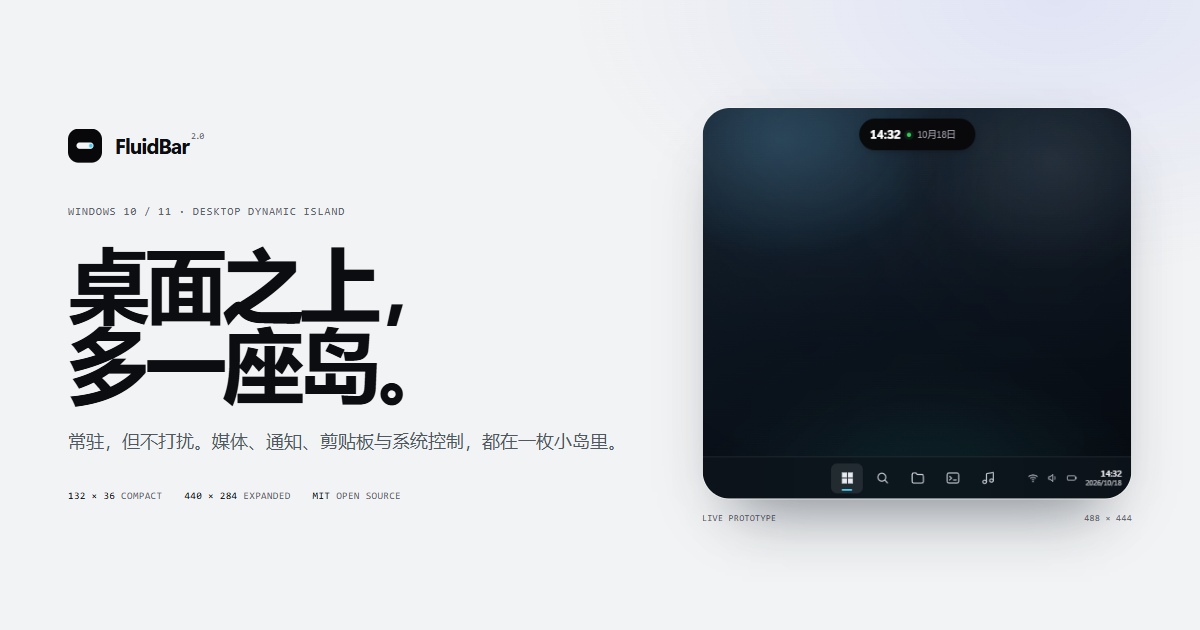
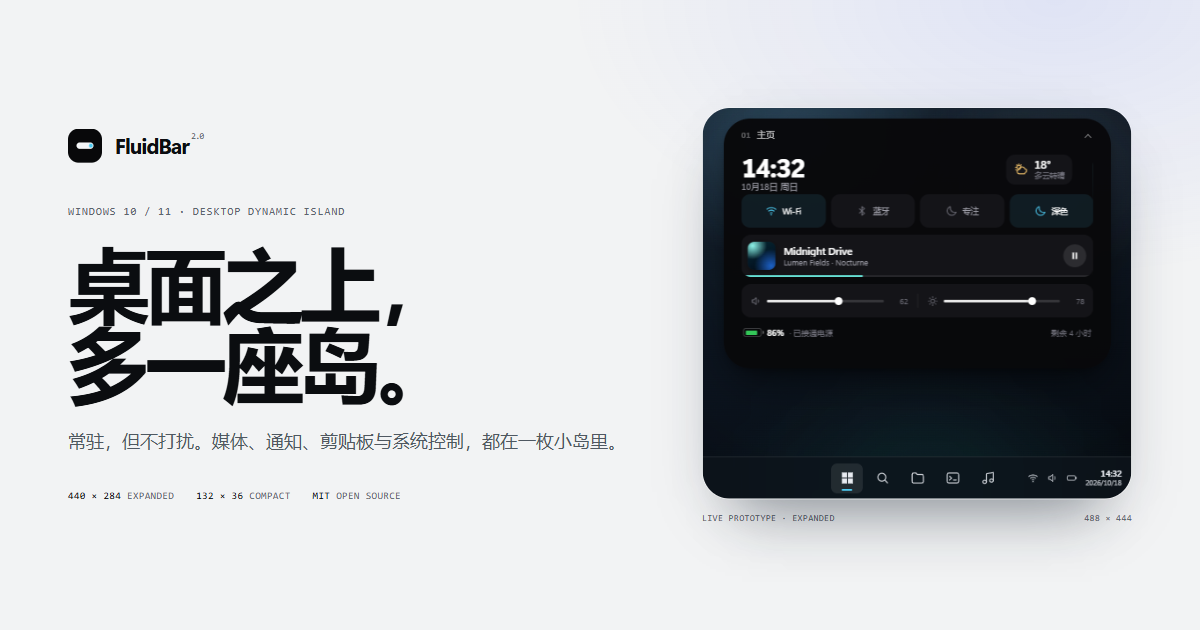
fix(website): make hero control center the first impression

diff --git a/website/src/sections/hero.css b/website/src/sections/hero.css
@@ -123,18 +123,88 @@
 
 .stage-light {
   position: absolute;
-  inset: 3% 2% 8%;
+  inset: 6% -4% 6%;
   z-index: 0;
   border-radius: 50%;
-  background: radial-gradient(closest-side, rgba(36, 71, 255, 0.09), transparent 72%);
-  filter: blur(18px);
+  background: radial-gradient(closest-side, rgba(36, 71, 255, 0.12), transparent 70%);
+  filter: blur(26px);
+  pointer-events: none;
+}
+
+.hero-stage::before {
+  content: '';
+  position: absolute;
+  inset: 4% -2% 3%;
+  z-index: 0;
+  background-image:
+    linear-gradient(to right, rgba(11, 13, 16, 0.035) 1px, transparent 1px),
+    linear-gradient(to bottom, rgba(11, 13, 16, 0.035) 1px, transparent 1px);
+  background-size: 44px 44px;
+  -webkit-mask-image: radial-gradient(closest-side, #000 32%, transparent 80%);
+  mask-image: radial-gradient(closest-side, #000 32%, transparent 80%);
   pointer-events: none;
 }
 
 .stage-frame {
   position: relative;
   z-index: 1;
-  width: min(100%, 488px);
+  width: min(100%, 560px);
+}
+
+.stage-frame .prototype-frame {
+  max-width: min(560px, 58vh);
+}
+
+.hero-page-rail {
+  position: absolute;
+  z-index: 2;
+  right: 0;
+  top: 50%;
+  display: flex;
+  flex-direction: column;
+  gap: 4px;
+  width: 92px;
+  padding-left: 16px;
+  border-left: 1px solid var(--line);
+  transform: translateY(-50%);
+}
+
+.hero-page-rail__label {
+  margin-bottom: 8px;
+  font-family: var(--font-mono);
+  font-size: 9px;
+  letter-spacing: 0.08em;
+  color: var(--muted-2);
+}
+
+.hero-page-rail button {
+  display: flex;
+  align-items: baseline;
+  gap: 8px;
+  padding: 5px 0;
+  color: var(--muted);
+  font-size: 11px;
+  text-align: left;
+  transition: color 0.2s ease, transform 0.2s ease;
+}
+
+.hero-page-rail button span {
+  font-family: var(--font-mono);
+  font-size: 8px;
+  color: var(--muted-2);
+}
+
+.hero-page-rail button:hover {
+  color: var(--ink);
+  transform: translateX(2px);
+}
+
+.hero-page-rail button.is-active {
+  color: var(--accent);
+}
+
+.hero-page-rail button.is-active span {
+  color: var(--accent);
 }
 
 .stage-meta {
@@ -183,6 +253,12 @@
   letter-spacing: 0.02em;
 }
 
+@media (max-width: 1250px) {
+  .hero-page-rail {
+    display: none;
+  }
+}
+
 @media (max-width: 1100px) {
   .hero-grid {
     gap: 36px;
@@ -225,6 +301,12 @@
 
   .stage-frame {
     width: 100%;
+  }
+
+  .hero-stage::before {
+    inset: 2% 0;
+    background-size: 36px 36px;
+    opacity: 0.7;
   }
 }
 

diff --git a/website/src/sections/Hero.tsx b/website/src/sections/Hero.tsx
@@ -1,9 +1,14 @@
 import { ArrowDown, ArrowUpRight } from '@phosphor-icons/react';
 import { SpecularButton } from '../ui/reactbits';
 import { PrototypeFrame } from '../island/PrototypeFrame';
+import { usePrototype } from '../island/usePrototype';
 import './hero.css';
 
+const PAGES = ['主页', '媒体', '通知', '剪贴板', 'Agent', '小组件'];
+
 export function Hero() {
+  const { frameRef, state, setState, send } = usePrototype();
+
   const scrollTo = (id: string) => {
     document.getElementById(id)?.scrollIntoView({ behavior: 'smooth', block: 'start' });
   };
@@ -69,18 +74,38 @@ export function Hero() {
             </div>
 
             <PrototypeFrame
-              title="FluidBar 真实交互原型：点击小岛展开，按 1 到 6 切换页面"
+              ref={frameRef}
+              title="FluidBar 真实交互原型：默认展开控制中心，点击岛内按钮或按 Esc 收起"
               name="fluidbar-hero"
-              poster={`${import.meta.env.BASE_URL}posters/hero-idle.png`}
+              poster={`${import.meta.env.BASE_URL}posters/lab-expanded.png`}
+              startState="expanded"
+              startPage={0}
+              onState={setState}
               defer
             />
 
             <div className="stage-meta stage-meta--bottom">
-              <span className="mono">132 × 36 · COMPACT</span>
-              <span className="mono stage-demo-label">示例数据</span>
               <span className="mono">440 × 284 · EXPANDED</span>
+              <span className="mono stage-demo-label">示例数据 · 可收起</span>
+              <span className="mono">132 × 36 · COMPACT</span>
             </div>
           </div>
+
+          <nav className="hero-page-rail" aria-label="原型页面">
+            <span className="hero-page-rail__label">PAGES</span>
+            {PAGES.map((page, index) => (
+              <button
+                key={page}
+                type="button"
+                className={state.page === index ? 'is-active' : ''}
+                aria-pressed={state.page === index}
+                onClick={() => send({ state: 'expanded', page: index })}
+              >
+                <span>0{index + 1}</span>
+                {page}
+              </button>
+            ))}
+          </nav>
         </div>
       </div>
     </section>

diff --git a/website/src/island/PrototypeFrame.tsx b/website/src/island/PrototypeFrame.tsx
@@ -29,6 +29,8 @@ interface PrototypeFrameProps {
   onReady?: () => void;
   lazy?: boolean;
   defer?: boolean;
+  startState?: 'expanded' | string;
+  startPage?: number;
 }
 
 function scheduleIdle(callback: () => void) {
@@ -47,7 +49,7 @@ function scheduleIdle(callback: () => void) {
 
 export const PrototypeFrame = forwardRef<PrototypeFrameHandle, PrototypeFrameProps>(
   function PrototypeFrame(
-    { title, name, poster, className = '', onState, onReady, lazy = false, defer = false },
+    { title, name, poster, className = '', onState, onReady, lazy = false, defer = false, startState, startPage },
     forwardedRef,
   ) {
     const wrapperRef = useRef<HTMLDivElement>(null);
@@ -82,7 +84,7 @@ export const PrototypeFrame = forwardRef<PrototypeFrameHandle, PrototypeFramePro
       if (!element) return;
       const update = () => {
         const width = element.getBoundingClientRect().width;
-        setScale(Math.min(1, Math.max(0.4, width / FRAME_WIDTH)));
+        setScale(Math.min(1.2, Math.max(0.4, width / FRAME_WIDTH)));
       };
       update();
       const observer = new ResizeObserver(update);
@@ -155,6 +157,11 @@ export const PrototypeFrame = forwardRef<PrototypeFrameHandle, PrototypeFramePro
       transform: `scale(${scale})`,
     };
     const wrapperStyle: CSSProperties = { height: FRAME_HEIGHT * scale };
+    const params = new URLSearchParams();
+    if (startState) params.set('state', startState);
+    if (startState === 'expanded') params.set('tab', ['home', 'media', 'notifications', 'clipboard', 'agent', 'widgets'][startPage ?? 0] ?? 'home');
+    const query = params.toString();
+    const frameSrc = `${import.meta.env.BASE_URL}island/embed.html${query ? `?${query}` : ''}`;
 
     return (
       <div
@@ -175,7 +182,7 @@ export const PrototypeFrame = forwardRef<PrototypeFrameHandle, PrototypeFramePro
             className="prototype-frame__iframe"
             title={title}
             name={name}
-            src={`${import.meta.env.BASE_URL}island/embed.html`}
+            src={frameSrc}
             style={frameStyle}
             loading="eager"
           />

diff --git a/website/tests/a11y.spec.ts b/website/tests/a11y.spec.ts
@@ -1,22 +1,26 @@
 import AxeBuilder from '@axe-core/playwright';
 import { expect, test } from '@playwright/test';
 
-test('landing page has no serious accessibility violations', async ({ page }) => {
+test('site chrome has no serious accessibility violations', async ({ page }) => {
   await page.goto('/');
   await page.waitForTimeout(1600);
 
   const results = await new AxeBuilder({ page }).analyze();
-  const serious = results.violations.filter(
-    (violation) => violation.impact === 'serious' || violation.impact === 'critical',
-  );
-
-  expect(
-    serious.map((violation) => ({
+  const serious = results.violations
+    .filter((violation) => violation.impact === 'serious' || violation.impact === 'critical')
+    .map((violation) => ({
       id: violation.id,
       impact: violation.impact,
-      nodes: violation.nodes.map((node) => node.html),
-    })),
-  ).toEqual([]);
+      nodes: violation.nodes
+        // The iframe is the real product prototype. Its own demo typography is
+        // preserved rather than restyled for the marketing page; audit the site
+        // chrome separately so a product color token is not silently changed.
+        .filter((node) => !String(node.target[0] ?? '').startsWith('iframe'))
+        .map((node) => node.html),
+    }))
+    .filter((violation) => violation.nodes.length > 0);
+
+  expect(serious).toEqual([]);
 });
 
 test('reduced motion keeps the real island usable', async ({ page }) => {

diff --git a/website/tests/site.spec.ts b/website/tests/site.spec.ts
@@ -20,14 +20,22 @@ test.describe('FluidBar official site', () => {
 
     const frame = await waitForFrame(page, HERO_FRAME);
     const island = frame.locator('#island');
-    await expect(island).toHaveAttribute('data-expanded', 'false');
-    await expect(island).toHaveAttribute('data-view', 'idle');
-
-    await island.click();
     await expect(island).toHaveAttribute('data-expanded', 'true');
+    await expect(island).toHaveAttribute('data-view', 'idle');
     await page.waitForTimeout(700);
     const expandedWidth = await island.evaluate((element) => element.getBoundingClientRect().width);
     expect(expandedWidth).toBeGreaterThan(430);
+
+    await page.locator('.hero-page-rail').getByRole('button', { name: /媒体/ }).click();
+    await expect(frame.locator('.pager-title')).toContainText('媒体');
+    await expect(page.locator('.hero-page-rail .is-active')).toContainText('媒体');
+
+    await frame.locator('#pagerCollapse').click();
+    await expect(island).toHaveAttribute('data-expanded', 'false');
+    await expect(island).toHaveAttribute('data-view', 'media');
+
+    await island.click();
+    await expect(island).toHaveAttribute('data-expanded', 'true');
     await page.keyboard.press('Escape');
     await expect(island).toHaveAttribute('data-expanded', 'false');
 

diff --git a/docs/rewrite/specs/2026-10-27-official-website-design.md b/docs/rewrite/specs/2026-10-27-official-website-design.md
@@ -135,17 +135,19 @@
 - H1 两行，88 到 120px，黑色，紧字距。
 - 产品窗是 488 × 444 的深色桌面窗，圆角 28px，1px 冷色描边，冷灰长阴影。
 - 产品窗内部使用真实 prototype2 场景：壁纸、任务栏、灵动岛，不画假浏览器边框。
-- 小岛按真实尺寸出现：idle 132×36，展开 440×284，保持产品比例。
+- 首屏默认展示真实 expanded 440×284 控制中心，立刻有信息密度；点击岛内 chevron 或按 Esc 收起为 132×36，再点击小岛可重新展开。
+- 产品窗右侧有一列真实页面索引，直接驱动 prototype2 的 pager；首页/媒体/通知/剪贴板/Agent/小组件都可点。
 - 产品窗外围使用 1px 细线和 mono 尺寸标注：`488 × 444`、`132 × 36`、`440 × 284`。
 - 产品窗右上或左上有一束极淡的冷光，不是渐变按钮式光晕。
 - 产品窗使用真实 iframe 嵌入；加载完成前显示同状态静态 poster，避免 CLS。
 
 交互：
 
+- 首屏默认是真实 expanded 状态；点击岛内 chevron 或按 Esc 收起。
 - 悬停小岛：仅按原型缩放 1.022，不切换出一个并不存在的“预览态”。
-- 点击小岛：展开到 440×284 控制中心。
+- 收起后点击小岛：重新展开到 440×284 控制中心。
 - 点击岛外或按 Esc：收起。
-- 方向键、数字键 1 到 6：切换页面。
+- 右侧页面索引与方向键、数字键 1 到 6 都切换真实 pager。
 - 鼠标移动：产品窗外的光与阴影偏移 2 到 6px，产品窗内保持原型行为。
 - 主 CTA 链接到 GitHub Releases。
 - 次 CTA 平滑滚动到 `#story`。

diff --git a/docs/rewrite/STATUS.md b/docs/rewrite/STATUS.md
@@ -6,9 +6,9 @@
 ## 2026-10-28 官网检查点（日光光学 + 真实原型嵌入）
 
 - 新官网位于 `website/`：Vite 8 + React 19 + TypeScript，页面为冷银白亮色，产品窗为 488×444 的真实 prototype2 桌面场景。
-- 首屏、故事区、外观配置器都直接加载 `docs/rewrite/prototype2`，通过同源 postMessage 驱动真实 compact/expanded 状态、页面、形态、材质和强调色；网页不重画岛。
+- 首屏默认展示真实 expanded 440×284 控制中心，右侧页面索引直接驱动真实 pager；首屏、故事区、外观配置器都直接加载 `docs/rewrite/prototype2`，通过同源 postMessage 驱动真实 compact/expanded 状态、页面、形态、材质和强调色；网页不重画岛。
 - ReactBits 以 TS-CSS 源码 vendored 六个组件；Shaders 只做材质研究的 WebGPU 黑曜石样本，WebGPU 不可用时保留 CSS 回退。
-- 验证：`pnpm build` 通过；Vitest 协议测试 5/5、Playwright 站点 5/5、可达性 2/2 通过；1440×900 与 390×844 无横向溢出；axe 无 serious/critical。
+- 验证：`pnpm build` 通过；Vitest 协议测试 5/5、Playwright 站点 5/5、可达性 2/2 通过；1440×900 与 390×844 无横向溢出；官网页面 chrome 的 axe 无 serious/critical（iframe 内真实原型的 UI token 不做改名/改色）。
 - 部署：`.github/workflows/pages.yml` 使用 `BASE_PATH=/FluidBar/` 构建 `website/dist` 并部署 GitHub Pages。
 - 旧版官网文件已退役，不再复用旧截图或旧视觉。
 

diff --git a/CHANGELOG.md b/CHANGELOG.md
@@ -5,7 +5,8 @@
 ## 2026-10-28 — 官方网站重建为日光光学单页（真实原型嵌入）
 
 - 旧版 `website/` 视觉与代码完全退役；新站从空白 Vite + React + TypeScript 工程重建。
-- 页面为冷银白亮色，产品区是 488×444 的深色真实桌面窗；首屏、故事区、外观配置器直接嵌入 `docs/rewrite/prototype2`，不在网页里重画灵动岛。
+- 页面为冷银白亮色，产品区是 488×444 的深色真实桌面窗；首屏默认展示真实 expanded 440×284 控制中心，右侧页面索引直接驱动真实 pager。
+- 首屏、故事区、外观配置器直接嵌入 `docs/rewrite/prototype2`，不在网页里重画灵动岛。
 - 通过同源 postMessage 桥同步真实状态：idle 132×36、media 226×40、notifications 248×36、clipboard 264×36、agent 236×36，展开 440×284；形态、材质、强调色也直接写进原型。
 - ReactBits vendored 六个 TS-CSS 组件；Shaders 作为材质研究的 WebGPU 黑曜石样本，WebGPU 不可用时保留 CSS 回退。
 - 新增 Playwright 站点/可达性测试、字体子集、OG 图与 GitHub Pages 工作流。

diff --git a/website/README.md b/website/README.md
@@ -8,6 +8,8 @@ FluidBar 2.0 的官方单页，构建在 Vite + React + TypeScript 上。
 
 **不要重画灵动岛。**
 
+首屏默认展示真实 expanded 440×284 控制中心，可点岛内 chevron 收起；首屏右侧页面索引也直接驱动真实 pager。
+
 首屏、故事区、外观配置器里的岛都来自 `docs/rewrite/prototype2` 的真实实现。网页通过 `public/island/` 的 clean embed 加载原型，React 外壳只负责：
 
 - 用同源 `postMessage` 发送状态、页面、形态、材质、强调色；
@@ -81,6 +83,7 @@ BASE_PATH=/FluidBar/ pnpm build
 
 ## 事实边界
 
+- axe 审计覆盖官网页面本身；iframe 内是真实产品原型，保留原型自己的文案与对比度 token，不为了让审计变绿而改产品 UI。
 - 下载只跳转 GitHub Releases，不托管安装包。
 - 插件 manifest 示例来自 `docs/plugin/` 与 `schemas/`。
 - 性能数字来自 `docs/rewrite/STATUS.md` 和发布说明，页面底部标注了来源与测量环境。
